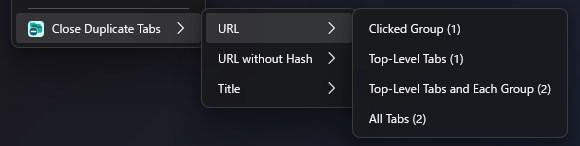
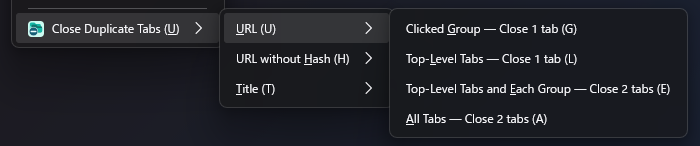
AMO 用スクリーンショットを撮り直す

diff --git a/tools/capture-amo-screenshots.js b/tools/capture-amo-screenshots.js
@@ -526,86 +526,78 @@ async function hoverChromeMenuItem (matcher) {
   }
 }
 
-async function getOpenChromeMenuCrop (topMatcher) {
-  const windowRect = await driver.manage().window().getRect()
+async function getOpenChromeMenuCrop (windowRect, topMatcher, submenuLabel) {
   await driver.setContext(firefox.Context.CHROME)
   try {
-    const crop = await driver.executeScript(`
-      const matcher = arguments[0]
+    const crop = await driver.wait(async () => {
+      return await driver.executeScript(`
+        const [matcher, submenuLabel] = arguments
 
-      function getLabel (item) {
-        return item.getAttribute('label') || item.label ||
-          item.textContent.trim()
-      }
-
-      function matches (label) {
-        if (matcher.exact && label === matcher.exact) {
-          return true
+        function getLabel (item) {
+          return item.getAttribute('label') || item.label ||
+            item.textContent.trim()
         }
-        return matcher.prefix && label.startsWith(matcher.prefix)
-      }
 
-      function toPlainRect (rect) {
+        function isVisible (item) {
+          const rect = item.getBoundingClientRect()
+          return rect.width > 0 && rect.height > 0 && !item.hidden
+        }
+
+        function getOpenPopup (menu) {
+          const popup = menu?.querySelector(':scope > menupopup')
+          return popup?.state === 'open' ? popup : null
+        }
+
+        const contextMenu = document.getElementById('tabContextMenu')
+        if (contextMenu?.state !== 'open') {
+          return null
+        }
+
+        const topItems = Array.from(contextMenu.children).filter((item) => {
+          const label = getLabel(item)
+          return isVisible(item) && ((matcher.exact && label === matcher.exact) ||
+            (matcher.prefix && label.startsWith(matcher.prefix)))
+        })
+        const topItem = matcher.last ? topItems.at(-1) : topItems[0]
+        if (!topItem) {
+          return null
+        }
+
+        const rects = [topItem.getBoundingClientRect()]
+        if (submenuLabel) {
+          const methodPopup = getOpenPopup(topItem)
+          const methodItem = methodPopup && Array.from(methodPopup.children).
+            find((item) => getLabel(item) === submenuLabel && isVisible(item))
+          const scopePopup = getOpenPopup(methodItem)
+          if (!scopePopup) {
+            return null
+          }
+
+          // Firefox refreshes the count labels after the menu opens.
+          const actions = Array.from(scopePopup.children).
+            filter((item) => item.localName === 'menuitem' && isVisible(item))
+          const countLabel = / — (?:Close [0-9]+ tabs?|No tabs to close) /
+          if (actions.length === 0 ||
+              actions.some((item) => !countLabel.test(getLabel(item)))) {
+            return null
+          }
+
+          rects.push(methodPopup.getBoundingClientRect(),
+            scopePopup.getBoundingClientRect())
+        }
+
+        const left = Math.floor(Math.min(...rects.map((rect) => rect.left)))
+        const top = Math.floor(Math.min(...rects.map((rect) => rect.top)))
+        const right = Math.ceil(Math.max(...rects.map((rect) => rect.right)))
+        const bottom = Math.ceil(Math.max(...rects.map((rect) => rect.bottom)))
         return {
-          bottom: rect.bottom,
-          height: rect.height,
-          left: rect.left,
-          right: rect.right,
-          top: rect.top,
-          width: rect.width,
+          x: left - 8,
+          y: top - 8,
+          width: right - left + 28,
+          height: bottom - top + 16,
         }
-      }
-
-      function sameRect (rect1, rect2) {
-        return Math.abs(rect1.left - rect2.left) < 1 &&
-          Math.abs(rect1.top - rect2.top) < 1 &&
-          Math.abs(rect1.width - rect2.width) < 1 &&
-          Math.abs(rect1.height - rect2.height) < 1
-      }
-
-      const topItems =
-        Array.from(document.querySelectorAll('menu, menuitem')).
-          filter((item) => {
-            const rect = item.getBoundingClientRect()
-            return rect.width > 0 && rect.height > 0 &&
-              !item.hidden && matches(getLabel(item))
-          })
-      const topItem = matcher.last
-        ? topItems[topItems.length - 1]
-        : topItems[0]
-      if (!topItem) {
-        return null
-      }
-
-      const topItemRect = topItem.getBoundingClientRect()
-      const parentPopupRect = topItem.closest('menupopup')?.
-        getBoundingClientRect()
-      const rects = [toPlainRect(topItemRect)]
-      for (const popup of document.querySelectorAll('menupopup')) {
-        const rect = popup.getBoundingClientRect()
-        if (rect.width <= 0 || rect.height <= 0) {
-          continue
-        }
-        if (parentPopupRect && sameRect(rect, parentPopupRect)) {
-          continue
-        }
-        rects.push(toPlainRect(rect))
-      }
-
-      const left = Math.floor(Math.min(...rects.map((rect) => rect.left)))
-      const top = Math.floor(Math.min(...rects.map((rect) => rect.top)))
-      const right = Math.ceil(Math.max(...rects.map((rect) => rect.right)))
-      const bottom = Math.ceil(Math.max(...rects.map((rect) => rect.bottom)))
-      return {
-        x: left - 8,
-        y: top - 8,
-        width: right - left + 28,
-        height: bottom - top + 16,
-      }
-    `, topMatcher)
-    if (!crop) {
-      throw new Error('top menu item was not found')
-    }
+      `, topMatcher, submenuLabel)
+    }, WAIT_MS, 'menu popups and duplicate counts did not become visible')
     return {
       x: windowRect.x + crop.x,
       y: windowRect.y + crop.y,
@@ -718,27 +710,30 @@ async function captureMenuScreenshot ({ shallow, path, cropName, fallbackCrop })
       height: 780,
     })
     await driver.sleep(500)
+    const { uniq, url } = SCREENSHOT_LOCALE.labels
     const topMatcher = shallow
-      ? createLabelMatcher({ prefix: SCREENSHOT_LOCALE.labels.uniq + ': ' })
+      ? createLabelMatcher({
+          prefix: uniq + ': ' + url + ': Top-Level Tabs — Close 1 tab (',
+        })
       : createLabelMatcher({
-          exact: SCREENSHOT_LOCALE.labels.uniq + ' (U)',
+          exact: uniq + ' (U)',
           last: true,
         })
+    const submenuLabel = shallow ? null : url + ' (U)'
 
     await closeChromeMenus()
     await openSelectedTabContextMenu()
     await hoverChromeMenuItem(topMatcher)
-    if (!shallow) {
-      await hoverChromeMenuItem(createLabelMatcher({
-        exact: SCREENSHOT_LOCALE.labels.url + ' (U)',
-      }))
+    if (submenuLabel) {
+      await hoverChromeMenuItem(createLabelMatcher({ exact: submenuLabel }))
     }
-    await driver.sleep(800)
 
     const windowRect = await driver.manage().window().getRect()
+    const openMenuCrop = await getOpenChromeMenuCrop(windowRect, topMatcher,
+      submenuLabel)
     const crop = process.env[cropName]
       ? getMenuCrop(windowRect, cropName, fallbackCrop)
-      : await getOpenChromeMenuCrop(topMatcher)
+      : openMenuCrop
     await captureScreenCrop(path, crop)
   } finally {
     await driver.actions({ async: true }).sendKeys('\uE00C').perform().
